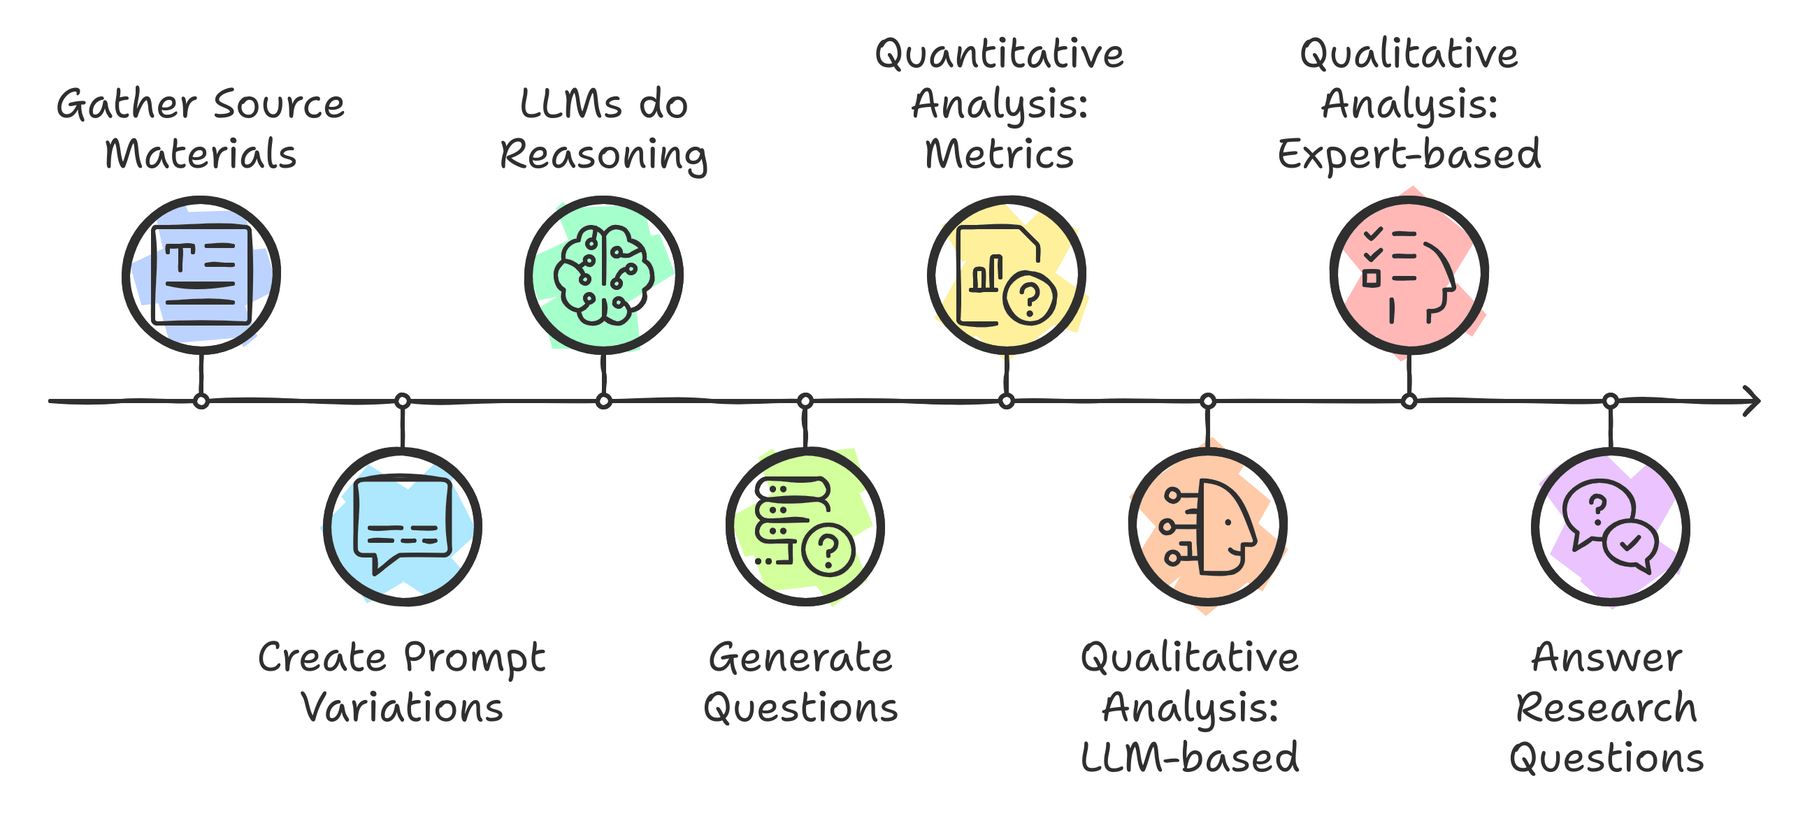
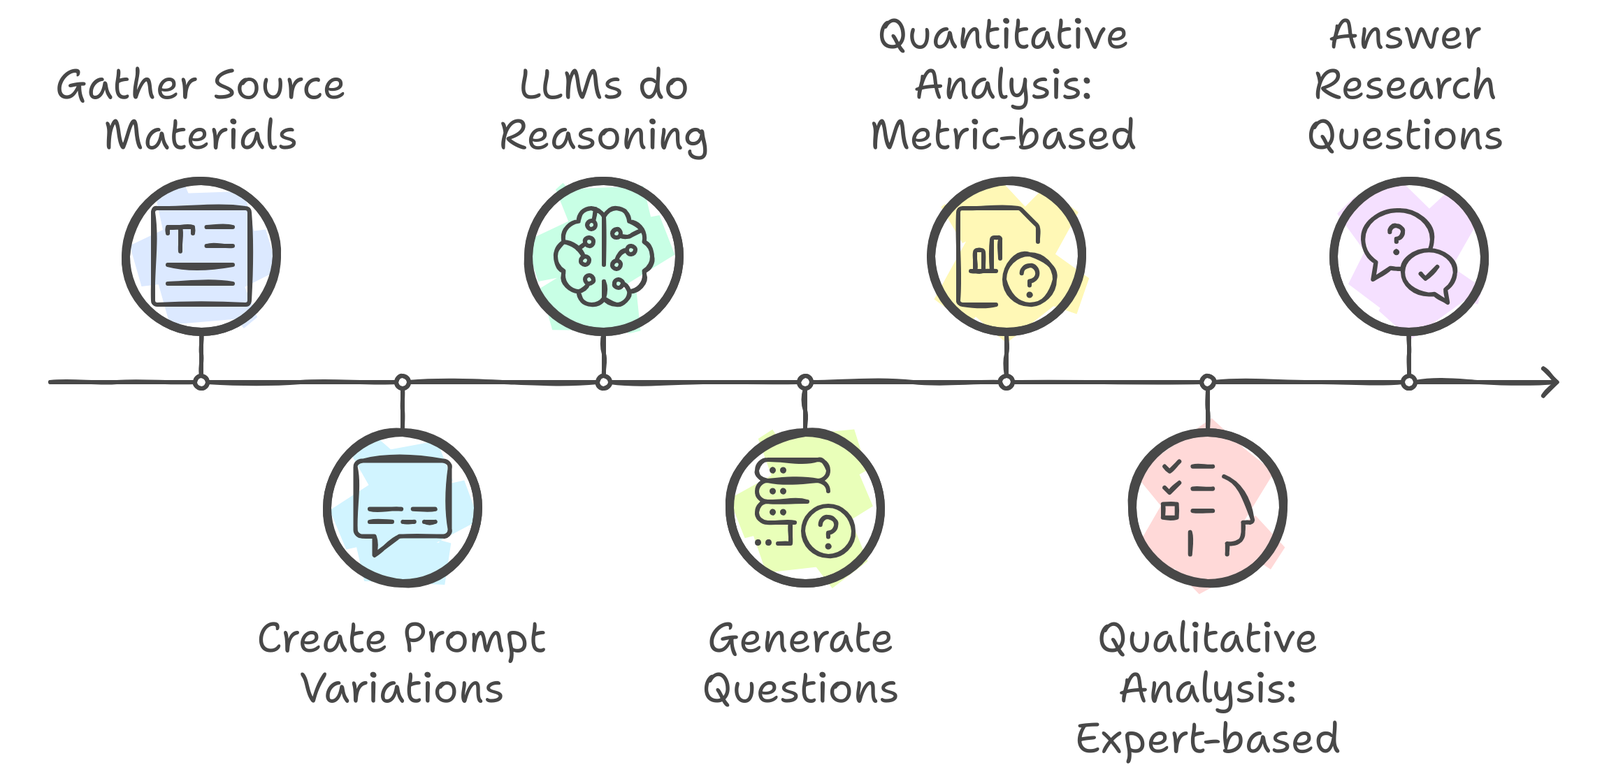
novel approach image; added ipykernel to requirements since needed for notebooks; thesis refinements in approach

Changed region(s): [[0.0308, 0.0308, 0.987, 0.9846]]

diff --git a/50_thesis/thesis/content/secs/4-experiment-design.tex b/50_thesis/thesis/content/secs/4-experiment-design.tex
@@ -71,18 +71,19 @@ The method employed for the two experiments is outlined here. It details the spe
         \item \textit{Quantitative Analysis:} In this stage, the \textit{Semantic Similarity} between each generated question and the desired source material will be evaluated. Instead of relying directly on BERTScore \cite{zhang_bertscore_2020}, the cosine similarity between the embedding vectors -- representing the source material and the generated question -- will be computed. These embeddings are obtained using a cross-lingual RoBERTa-based sentence transformer\footnote{\url{https://huggingface.co/T-Systems-onsite/cross-en-de-roberta-sentence-transformer}, accessed 05/09/2025}, which produces semantically meaningful and comparable sentence representations \cite{reimers_sentence-bert_2019}.
         
         Metrics such as \textit{\ac{bleurt}} and \textit{\ac{rquge}} were not employed since, on the one hand, the structure of the source material and the question differ too much, and on the other hand, gold standard answers are not available for comparison.
-        Moreover, other metrics such as Perplexity are unsuitable for this task, as \enquote{the output value is based heavily on what the text and the model was trained on. This means that perplexity scores are not comparable between models or datasets}\footnote{\url{https://huggingface.co/spaces/evaluate-metric/perplexity}, accessed 06/01/2025}. Instead, to properly analyze the \textit{Content Adherence} on a quantitative level besides the \textit{Semantic Similarity}, it will be assessed by prompting Gemini 2.5 Flash for every question to obtain acceptable results. This is useful to evaluate the generated questions against the source material by returning a value between 0 and 1.
-        % maybe a second run? depending on money in the end
-        % or using gemini 2.5 flash, which is free to use
+
+        Moreover, other metrics such as Perplexity are unsuitable for this task, as \enquote{the output value is based heavily on what the text and the model was trained on. This means that perplexity scores are not comparable between models or datasets}\footnote{\url{https://huggingface.co/spaces/evaluate-metric/perplexity}, accessed 06/01/2025}. Instead, to properly analyze the \textit{Content Adherence} on a quantitative level besides the \textit{Semantic Similarity}, it will be assessed by prompting Claude 3.7 Sonnet and OpenAI o3 for every question to obtain acceptable results using the mean of these values. This is useful to evaluate the generated questions against the source material by returning a value between 0 and 1. This aspect will be further discussed in Section \bfref{sec:evaluation}.
 
         % #todo here add the 5 experts (professor + scientific staff by uni rostock) who will evaluate the questions, instead of llm-based evaluation
         % hier haben sich neben meinem Hauptsupervisor noch 4 wissenschaftliche Mitarbeiter der Uni Rostock (des gleichen Lehrstuhls) bereit erklärt, die Fragen zu evaluieren. Passende Bewerter, da das ISO-OSI Modell am Lehrstuhl IuK bekannt ist.
-        \item \textit{Qualitative Analysis:} This phase involves a blind-test with expert-based evaluations of the generated questions. Five experts, including the main supervisor and four scientific staff members from the same university department, will rate a sampled question set using the concise rubric in Table \bfref{tab:exp1_criteria}. To analyze the inter-rater agreement, \tcr{Fleiss Kappa} will be calculated, which is suitable for more than two raters \tcr{cite}. The analysis adopts the rubric structure from \cite{mi_comparative_2024}, maintaining a maximum score of 50 points per question. The authors' rubric was created based on the criteria used by \cite{moore_assessing_2022}. However, the added \textit{Bloom's Level} criterion is replaced with \textit{Correctness} to address the objectives of this experiment. Since Experiment 1b examines the adherence to \textit{manipulated} input texts, the \textit{Correctness} category is split in half, as to be seen below:
+        \item \textit{Qualitative Analysis:} This phase involves a blind-test with expert-based evaluations of the generated questions. Five experts, including the primary supervisor and four scientific staff members from the same university department, will rate a sampled question set using the concise rubric in Table \bfref{tab:exp1_criteria}. To analyze the inter-rater agreement, \tcr{Fleiss Kappa} will be calculated, which is suitable for more than two raters \tcr{cite}. 
+        
+        The analysis adopts the rubric structure from \cite{mi_comparative_2024}, maintaining a maximum score of 50 points per question. The authors' rubric was created based on the criteria used by \cite{moore_assessing_2022}. However, instead of the \textit{Bloom's Level} criterion, the \textit{Correctness}, the \textit{Value} from the lecturer's perspective, and the \textit{Language} and criteria were added to address the objectives of this experiment. Since Experiment 1b examines the adherence to \textit{manipulated} input texts, the \textit{Correctness} is then replaced by \textit{Manipulation Handling}, as to be seen below:
         % \item \textit{Qualitative Analysis:} Claude 3.7 Sonnet will serve as an evaluator, conducting one evaluation run per question from a sampled question set. The results will be compared against expert-based evaluations conducted on the same set using the similar concise rubric. By this, inter-annotator agreement between the averaged \ac{llm} evaluations and human expert will be measured via Cohen's Kappa to validate the reliability of automated evaluation methods. Since Experiment 1b examines the adherence to manipulated input texts, the \textit{Correctness} will be specifically assessed for 1a and 1b, as quantitative metrics solely may not capture the correctness of the generated questions. The evaluation adopts the rubric structure from \cite{mi_comparative_2024}, maintaining a maximum score of 50 points per question. However, the \textit{Bloom's Level} criterion is replaced with \textit{Correctness} to address the specific objectives of this experiment:
 
-        \begin{table}[htbp]
+\begin{table}[htbp]
            \centering
-           \renewcommand{\arraystretch}{1.4}
+           \renewcommand{\arraystretch}{1.8}
            \caption{Experiment 1 Evaluation Criteria.}
            \label{tab:exp1_criteria}
            \begin{tabularx}{\textwidth}{|Z|A|Y|}
@@ -98,13 +99,17 @@ The method employed for the two experiments is outlined here. It details the spe
            \hline
            \textbf{Challenging} & Is the question challenging? Does it encourage students to think actively? & 0-10p \\
            \hline
-           \multirow{2}{*}{\textbf{Correctness}} & \textbf{Original Source Material:} Is the question factually correct \& adhering to the source text? & \vspace{-1em}\begin{itemize} 
+           \textbf{Value} & Is the question considered professionally, didactically, or technically meaningful by the instructor? & 0-10p \\
+           \hline
+           \textbf{Language} & Is the language used by the system sufficiently precise and comprehensible? & 0-10p \\
+           \hline
+           \textbf{Correctness} & \textbf{For Experiment 1a:} Is the question factually correct \& adhering to the source text? & \vspace{-1.1em}\begin{itemize} 
                 \item Correct: 10p
                 \item Partially correct: 5p
                 \item Otherwise: 0p
             \end{itemize} \\
-           \cline{2-3}
-            & \textbf{Manipulated Source Material:} Does the question adhere to the manipulated input text content? & \vspace{-1em}\begin{itemize} 
+           \hline
+           \textbf{Manipulation Handling} & \textbf{For Experiment 1b:} Does the question adhere to the manipulated input text content? & \vspace{-1.2em}\begin{itemize} 
                 \item No Adherence\,/\,Model detects Manipulation: 10p
                 \item Partially adheres: 5p
                 \item Otherwise: 0p
@@ -114,7 +119,11 @@ The method employed for the two experiments is outlined here. It details the spe
          \end{table}
     \end{itemize}
 
-    \pagebreak
+    % #TODO add this to distinguish between clarity and language
+    % Unter Klarheit verstehe ich in der Bewertung vor allem die inhaltliche Eindeutigkeit und die logisch fachliche Klarheit.
+    % Unter Sprache verstehe ich die Komplexität / Schwulstigkeit der Sprache als solches. Eine schlechte Note in “Sprache” und eine gute Note in “Klarheit” würde also bedeuten: “Ich verstehe was gemeint ist, aber, Hilfe, kann man das bitte mit weniger unnotwendigen Schachtelsätzen mehr geradeaus formulieren”. Eine gute Note in “Sprache” und eine schlechte Note in “Klarheit” würde also bedeuten: “Das steht hier in ganz präzisem Deutsch, ok, fein, aber was inhaltlich hier gemeint ist erschließt sich mir nicht.” 
+
+    \vspace{0em}
 
     \item \textbf{Experiment 2 (Question Formats and Bloom's Taxonomy):}
     \begin{itemize}
@@ -123,7 +132,7 @@ The method employed for the two experiments is outlined here. It details the spe
 
         \begin{table}[htbp]
            \centering
-           \renewcommand{\arraystretch}{1.4}
+           \renewcommand{\arraystretch}{1.8}
            \caption{Experiment 2 Evaluation Criteria.}
            \label{tab:exp2_criteria}
            \begin{tabularx}{\textwidth}{|Z|A|Y|}
@@ -139,19 +148,23 @@ The method employed for the two experiments is outlined here. It details the spe
            \hline
            \textbf{Challenging} & Is the question challenging? Does it encourage students to think actively? & 0-10p \\
            \hline
-           \multirow{2}{*}{\textbf{Bloom's Level}} & \textbf{When Bloom level is specified:} Does the question adhere to the given Bloom level? & \vspace{-1em} \begin{itemize}
+           \textbf{Value} & Is the question considered professionally, didactically, or technically meaningful by the instructor? & 0-10p \\
+           \hline
+           \textbf{Language} & Is the language used by the system sufficiently precise and comprehensible? & 0-10p \\
+           \hline
+           \multirow{2}{*}{\textbf{Bloom's Level}} & \textbf{When Bloom level is specified:} Does the question adhere to the given Bloom level? & \vspace{-1.1em} \begin{itemize}
                 \item Correct: 10p
                 \item Off by one: 5p
                 \item Otherwise: 0p
             \end{itemize} \\
            \cline{2-3}
-            & \textbf{When no Bloom level is specified:} Which Bloom level does the question demonstrate? & \vspace{-1em} \begin{itemize}
+            & \textbf{When no Bloom level is specified:} Which Bloom level does the question demonstrate? & \vspace{-1.2em} \begin{itemize}
                 \item Creating: 10p
                 \item Evaluating: 8.5p
                 \item Analyzing: 7p
                 \item Applying: 4.5p
                 \item Understanding: 3p
-                \item Remembering 1.5p
+                \item Remembering: 1.5p
             \end{itemize} \\
            \hline
            \end{tabularx}
@@ -159,6 +172,10 @@ The method employed for the two experiments is outlined here. It details the spe
     \end{itemize}
 \end{itemize}
 
-Since both the human and the \ac{llm}-based evaluation shall be conducted as unbiased blind tests, the evaluators also will not be aware of the used methods to generate each question. This involves the model name, the kind of prompt used, the specified question type and the desired Bloom level for each question. Furthermore, to automatically score the \textit{Bloom's Level} -- based on the guideline in Table \bfref{tab:exp2_criteria}, the \ac{llms} as evaluators shall return solely the Bloom level they perceive for each question.
+\pagebreak
+
+Since all human expert analyses for Experiments 1 and 2, this shall be conducted as unbiased blind tests. To achieve this, the evaluators will not be aware of the used methods to generate each question. This involves the model name, the kind of prompt used, the specified question type and the desired Bloom level for each question.
+
+Furthermore, to properly score the \textit{Bloom's Level} -- based on the guideline in Table \bfref{tab:exp2_criteria}, the evaluators shall return solely the Bloom level they perceive for each question. The proper scoring then will be done automatically based on the returned Bloom level, since the raters will not be aware of the desired Bloom level for each question from the prompting process.
 
 The details about the \bfhyperref{sec:implementation-and-execution}{Implementation and Execution} for this experimental setup will be presented below. The results and discussion of these evaluations will be presented in Section \bfref{sec:evaluation}.

diff --git a/50_thesis/thesis/content/secs/5-the-approach.tex b/50_thesis/thesis/content/secs/5-the-approach.tex
@@ -7,12 +7,6 @@ This chapter details the practical implementation of the experimental design out
 
 % The Python source files implement the core functionality of the experimental framework:
 %
-% * analysis_quantitative.py: Implements embedding-based semantic similarity metrics 
-%   and automated adherence scoring.
-%
-% * agreement.py: Calculates inter-annotator reliability metrics between expert and 
-%   LLM evaluations.
-%
 % * evaluation.ipynb: Jupyter notebook for interactive analysis and visualization of 
 %   experimental results, providing an exploratory interface for data inspection (right now just quantitative exp1)
 %   so maybe there are multiple notebooks, exp1aquan, exp1aqual, exp2aqual, YES!
@@ -30,28 +24,6 @@ To manage the API configurations, the \bfhyperref{lst:api-config}{api\_config.py
 
 \subsection{Experimental Procedure}
 
-% evaluation/ - Contains prompt templates for evaluating generated questions:
-%
-% * exp_eval.md: Master evaluation prompt pattern that structures the assessment process,
-%   incorporating the question, context, and evaluation rubric with a standardized 
-%   comma-separated numeric output format.
-%
-% * exp1a_rubric.md: Evaluation criteria for Experiment 1a focusing on content fidelity,
-%   featuring 7 dimensions: Relevance, Clarity, Answerability, Challenge level, Value,
-%   Language quality, and Correctness, each with detailed scoring descriptions.
-%
-% * exp1b_rubric.md: Modified evaluation criteria for Experiment 1b focusing on error
-%   propagation, replacing the Correctness criterion with Manipulation Handling to assess
-%   how LLMs respond to deliberately altered source materials.
-%
-% * exp2_rubric.md: Specialized evaluation criteria for Experiment 2 focusing on Bloom's
-%   alignment, featuring 5 dimensions: Relevance, Clarity, Answerability, Challenge level,
-%   and targeted Bloom's Taxonomy level assessment.
-%
-% * exp1_adherence_eval.md: Quantitative evaluation prompt specifically for measuring content
-%   adherence on a scale from 0.0 to 1.0, providing an objective metric for how faithfully
-%   generated questions represent source
-
 \object{Prompt Engineering Strategy}
 The prompting strategy adheres to known suggestions.
 % incorporating role-based prompting, special markers for text and format requirements, and positive constraints.
@@ -67,21 +39,21 @@ The question generation pipeline is initialized and executed via \bfhyperref{lst
 \pagebreak
 
 \object{Data Management and Organization}
-The resulting data follows a systematic directory structure designed for clarity and reproducibility, as good as it can work with \ac{llms}. Source materials containing ISO-OSI content are organized into separate folders for script, transcript, and Tanenbaum book excerpts, enabling efficient access and processing. The generated questions were stored in distinct text files, while the directory path reflects experiment type, \ac{llm} model, source material, prompt variation, and question identifiers, to conduct automated analysis and manual review. Evaluation data is maintained in structured CSV files containing automated analysis and expert annotations, ensuring comprehensive assessment capabilities.
+The resulting data follows a systematic directory structure designed for clarity and reproducibility, as good as it can work with \ac{llms}. The source materials are organized into separate folders each, enabling proper access and processing. The questions were stored in distinct text files, while the directory path reflects experiment type, model, source material, prompt variation, and question identifiers, to conduct automated analysis and manual review. Evaluation data is maintained in structured CSV files containing automated analysis and expert annotations, ensuring comprehensive assessment capabilities.
 
 \subsection{Evaluation Implementation}
 
 \object{Multi-Modal Assessment}
-The analysis steps include quantitative and qualitative evaluation of the generated questions. Both approaches, besides the manual qualitative expert-based evaluation, were implemented in \bfhyperref{lst:analysis-quantitative}{analysis\_quantitative.py}. The quantitative analysis follows semantic similarity evaluation between question and source material embeddings. Furthermore, the \ac{llm}-based content adherence assessment -- returning a value between 0 and 1 -- was conducted to provide another quantitative analysis of the \ac{llms}' content adherence to the source material. The prompt for this manner of quantitative evaluation is shown in \bfhyperref{lst:exp1-adherence-eval}{exp1\_adherence\_eval.md}.
-% #TODO tell about quantitative and qualitative analysis --> results in evaluation via notebooks
+The analysis steps include quantitative and qualitative evaluation of the generated questions. Besides the manual qualitative expert-based evaluation, the quantitative analysis was implemented in \bfhyperref{lst:analysis-quantitative}{analysis\_quantitative.py}. It follows the \textit{Semantic Similarity} evaluation between question and source material embeddings. Furthermore, the \ac{llm}-based \textit{Adherence Score} assessment -- returning a value between 0 and 1 -- was conducted to provide an alternate quantitative analysis of the \ac{llms}' content adherence to the source material. The prompt for this manner of quantitative evaluation is shown in \bfhyperref{lst:exp1-adherence-eval}{exp1\_adherence\_eval.md}.
 
-Moreover, the qualitative analysis focused on sampled expert-based and \ac{llm}-based evaluation, focusing the same criteria. To properly evaluate using the desired rubric variations from Tables \bfref{tab:exp1_criteria} and \bfref{tab:exp2_criteria}, the \ac{llm} as an evaluator was conducting two evaluation runs to ensure consistency and reliability across assessments. After running this approach on the generated questions, the final scores were calculated by the mean of the results of this \ac{llm}. Expert human evaluation follows the structured annotation using the same criteria. To establish the reliability of automated evaluation methods, the calculation of inter-annotator agreement via Cohen's Kappa was needed, addressed with the \bfhyperref{lst:agreement}{agreement.py} file.
-
-Whether all analysis results are available, the quantitative and qualitative results are processed by means of the \bfhyperref{lst:eval}{eval.py} file and presented in clear tables and plots. These visualizations enable a clear presentation of the results and facilitate the interpretation of the determined data.
-% #todo add sampling into the text (2 questions out of every directory) for llm-based and expert-based evaluation
+Moreover, the qualitative analysis was conducted via sampled expert ratings. The randomized extraction of the questions is set up with a seed via \bfhyperref{lst:sampling}{sampling.py}. To properly evaluate the questions, the desired rubric variations from Tables \bfref{tab:exp1_criteria} and \bfref{tab:exp2_criteria} were used. These are also detailed in \bfhyperref{lst:exp1a-rubric}{exp1a\_rubric.md}, \bfhyperref{lst:exp1b-rubric}{exp1b\_rubric.md}, and \bfhyperref{lst:exp2-rubric}{exp2\_rubric.md}. Given that five experts were identified for the analysis, it is crucial to examine the reliability of the ratings each rater has given. To establish this, the calculation of inter-annotator agreement via Fleiss' Kappa is needed, addressed with the \bfhyperref{lst:agreement}{agreement.py} file. By this, for each category in the experiments, the agreement between the experts can be calculated properly.
+% #TODO add numbers how many samples ...
+% (2 questions out of every directory) for llm-based and expert-based evaluation
 % in exp1, 2/7 questions for each dir; in exp2, 2/6 questions for each dir --> 64/224 vs. 40/120 questions sampled
 
+Whether all analysis results are available, the quantitative and qualitative analysis results are processed by several evaluation files using Jupyter Notebook. Using these notebooks, numerous tables and plot figures are available to enable a clear presentation of the results and facilitate the interpretation of the determined data.
+
 \object{Implementation Challenges and Solutions}
-Despite the absence of novel technological creations by e.g.\ training, there were some technical challenges that had to be solved. The token limitation of the chosen RoBERTa model required manual shortening of the layer segment texts (if necessary) to ensure a suitable performance of the transformer model for the sentence embeddings. The multilingual processing challenges were tackled by the careful selection of this cross-lingual sentence transformer, which enabled effective handling of both the German lecture materials and the English textbook content.
+Some technical challenges had to be solved. The token limitation of the chosen modified RoBERTa model required manual shortening of the layer segment texts (if necessary) to ensure a suitable performance of the model to create the sentence embeddings. The multilingual processing challenges were tackled by the careful selection of this cross-lingual sentence transformer, which enabled effective handling of both the German lecture materials and the English textbook content.
 
 The developed \ac{aqg} pipeline proved to be particularly challenging, since it required careful consideration of prompting, model selection, and evaluation methods. In addition to that, the implementation of the effective automation of the generative (excluding DeepSeek) and evaluation processes required a lot of attention to detail.

diff --git a/50_thesis/thesis/content/thesis.tex b/50_thesis/thesis/content/thesis.tex
@@ -194,8 +194,7 @@ Firstly, I want to thank Professor Clemens Cap, my main advisor from the Departm
     \section{Question Generation Prompts} % https://www.overleaf.com/learn/latex/Code_listing
     \lstinputlisting[caption={Common Prompt for Experiment 1: \textbf{exp1\_common\_prompt.md}}, label={lst:exp1-common}]{../../../20_experiments/40_prompts/experiment/exp1_common_prompt.md} \vp
     \lstinputlisting[caption={Complex Prompt for Experiment 1: \textbf{exp1\_complex\_prompt.md}}, label={lst:exp1-complex}]{../../../20_experiments/40_prompts/experiment/exp1_complex_prompt.md} \vp
-    % complex prompt no source
-    \lstinputlisting[caption={Complex Prompt for Experiment 1a without using any Source: \textbf{exp1\_complex\_prompt\_no\_source.md}}, label={lst:exp1a-complex-no-source}]{../../../20_experiments/40_prompts/experiment/exp1a_complex_prompt_no_source.md} \vp
+    \lstinputlisting[caption={Complex Prompt using no Source: \textbf{exp1\_complex\_prompt\_no\_source.md}}, label={lst:exp1a-complex-no-source}]{../../../20_experiments/40_prompts/experiment/exp1a_complex_prompt_no_source.md} \vp
     \lstinputlisting[caption={Prompt focusing Question Type: \textbf{exp2\_type.md}}, label={lst:exp2-type}]{../../../20_experiments/40_prompts/experiment/exp2_type.md} \vp
     \lstinputlisting[caption={Prompt focusing Bloom's Level: \textbf{exp2\_bloom.md}}, label={lst:exp2-bloom}]{../../../20_experiments/40_prompts/experiment/exp2_bloom.md} \vp
     \lstinputlisting[caption={Prompt focusing Question Type and Bloom's Level: \textbf{exp2\_both.md}}, label={lst:exp2-both}]{../../../20_experiments/40_prompts/experiment/exp2_both.md} \vp
@@ -241,7 +240,7 @@ Firstly, I want to thank Professor Clemens Cap, my main advisor from the Departm
     # TODO \end{lstlisting}
     \begin{lstlisting}[language=python, caption={Question Generation Code: \textbf{question\_generation.py}}, label={lst:question-generation}]
     # TODO \end{lstlisting}
-    \begin{lstlisting}[language=python, caption={Evaluation Results Systhesis: \textbf{eval.py}}, label={lst:eval}]
+    \begin{lstlisting}[language=python, caption={Question Sampling Module: \textbf{sampling.py}}, label={lst:sampling}]
     # TODO \end{lstlisting}
     \begin{lstlisting}[language=python, caption={Truncation Checking: \textbf{check\_truncation.py}}, label={lst:check-truncation}]
     # TODO \end{lstlisting}

diff --git a/50_thesis/thesis/content/secs/6-evaluation.tex b/50_thesis/thesis/content/secs/6-evaluation.tex
@@ -49,3 +49,5 @@ The second experiment addressed evaluating the relationship between question for
 \object{Qualitative Analysis} Exp2 rubric with sampled llm-based evaluation via Claude 3.7 Sonnet and OpenAI o3, also with tables and plots here + inter-annotator agreement via Cohen's Kappa. \tcr{can happen that here we get experts from Prof. Rubach}
 
 \vp
+
+% #TODO add for all eval parts at least some anchor examples for quantitative1, qual1, qual2
